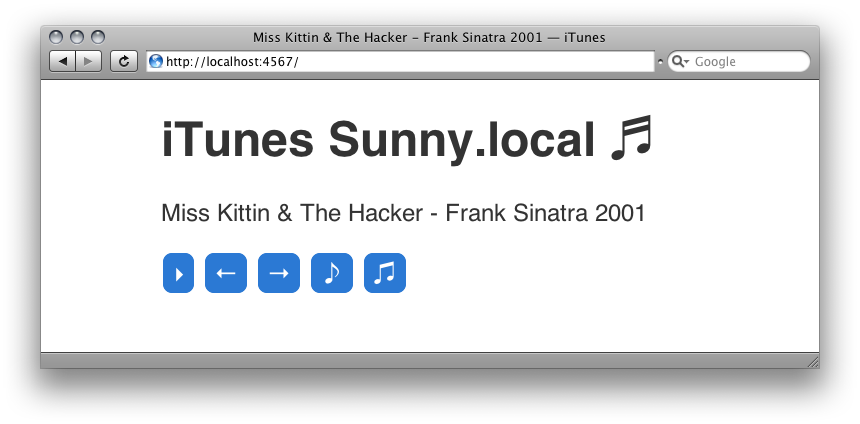
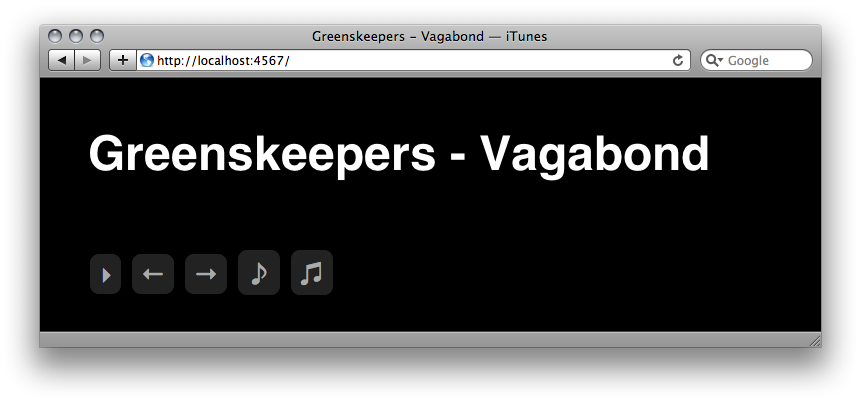
Black skin and dropped player name from interface
CSS from webs/so-nicely

diff --git a/public/stylesheet.css b/public/stylesheet.css
@@ -1,20 +1,28 @@
 body {
-  padding: 0 5em;
+  padding: 2em;
   margin: 0;
-  background: white;
-  color: #333;
+  background: black;
+  color: white;
   font: 1.5em Helvetica, sans-serif;}
+h1 {
+  margin: 0;
+  padding: 0;
+  text-shadow: black 0px 0px 7px;
+  font-size: 200%;}
+
+p {
+  position: absolute;
+  bottom: 10px;}
 input {
   font-size: 1em;
   color: inherit;
   text-decoration: none;
   padding: .2em .3em;
-  background: #2b79d4;
-  color: #fff;
+  background: #222;
+  color: #aaa;
   -moz-border-radius: .4em;
   -webkit-border-radius: .4em;
-  border: .1em solid #2b79d4;
+  border: .1em solid #222;
   cursor: pointer;}
 input:hover {
-  background: #83aedf;
-  border-color: #77a1d1;}
+  border-color: inherit;}

diff --git a/app.rb b/app.rb
@@ -35,12 +35,7 @@ __END__
     %meta{'http-equiv' => 'Refresh', :content => 10}
     %link{:rel => 'stylesheet', :href => '/stylesheet.css', :type => 'text/css'}
   %body
-    %h1
-      = $player.name
-      = $player.host
-      ♬
-
-    %p= @track
+    %h1= @track
 
     %form{:method => 'post', :action => 'player'}
       %p
